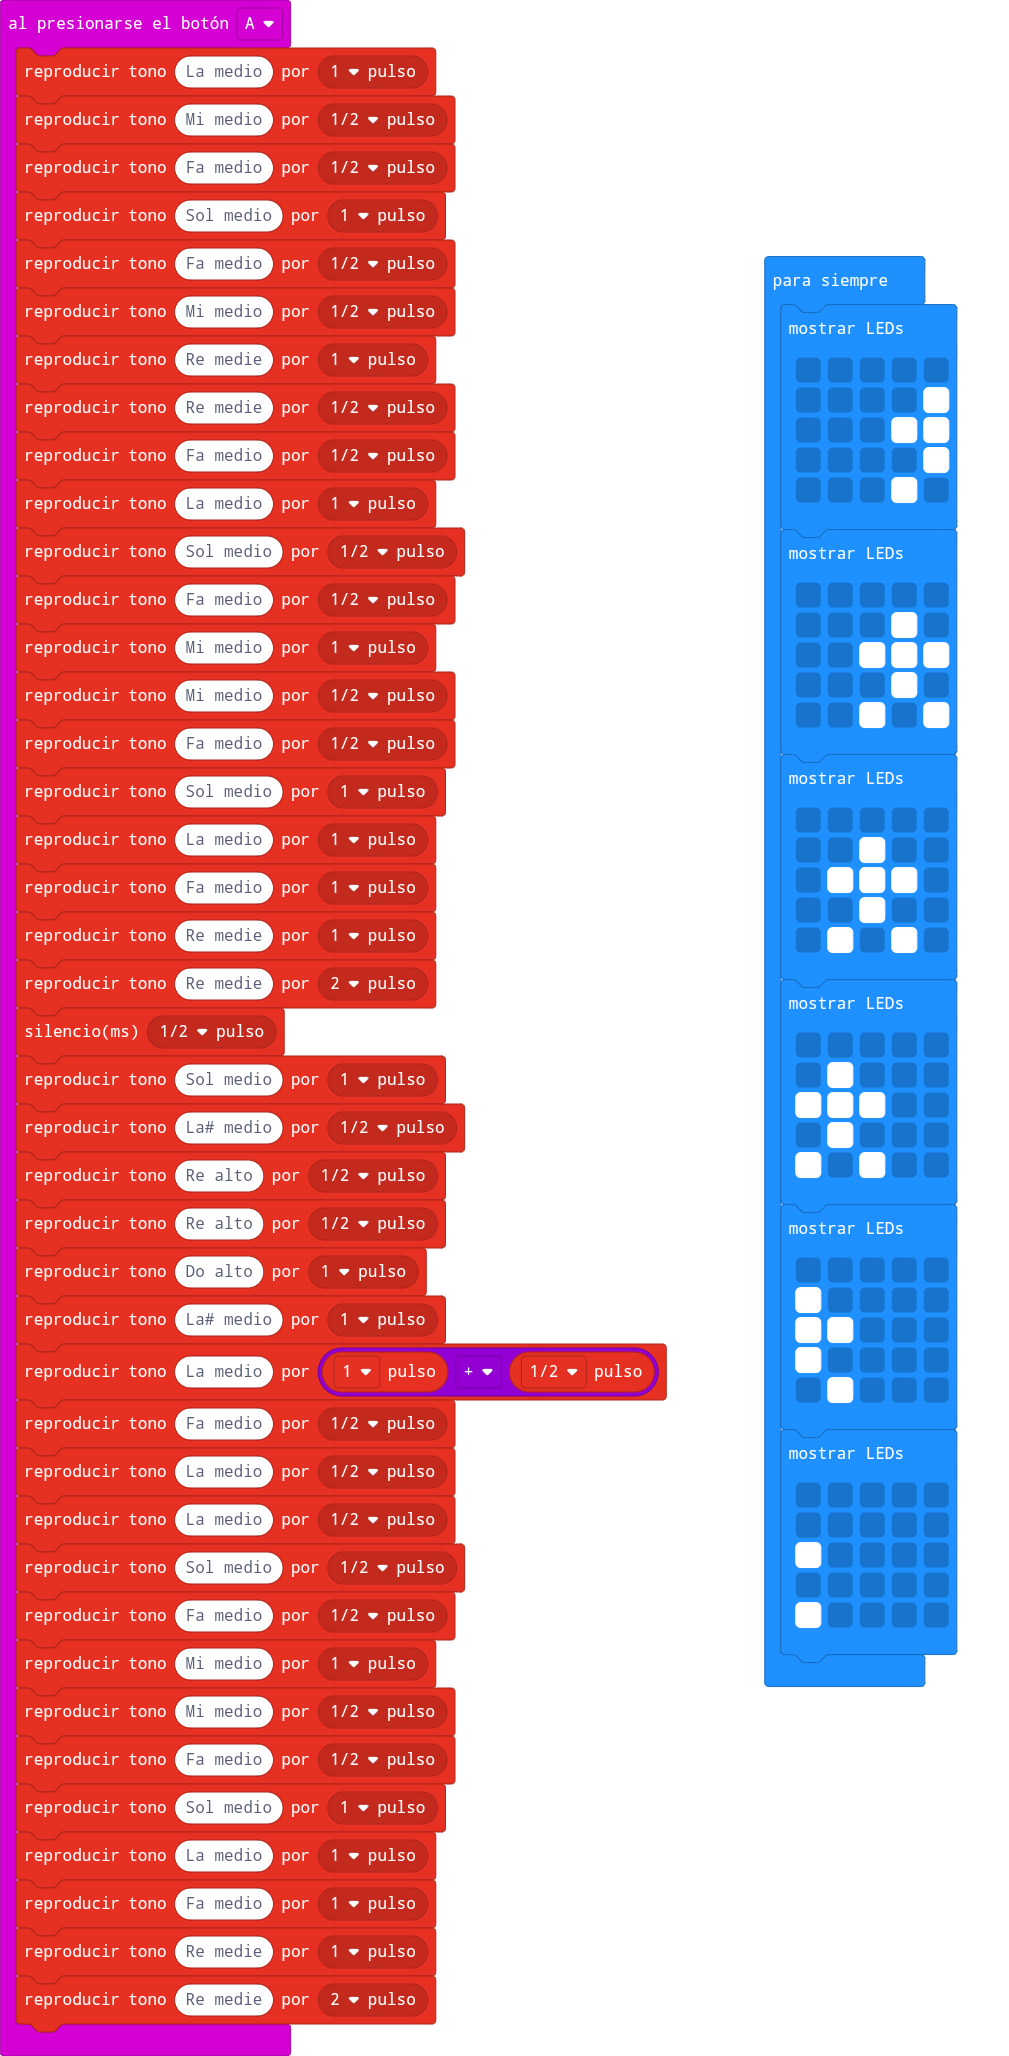
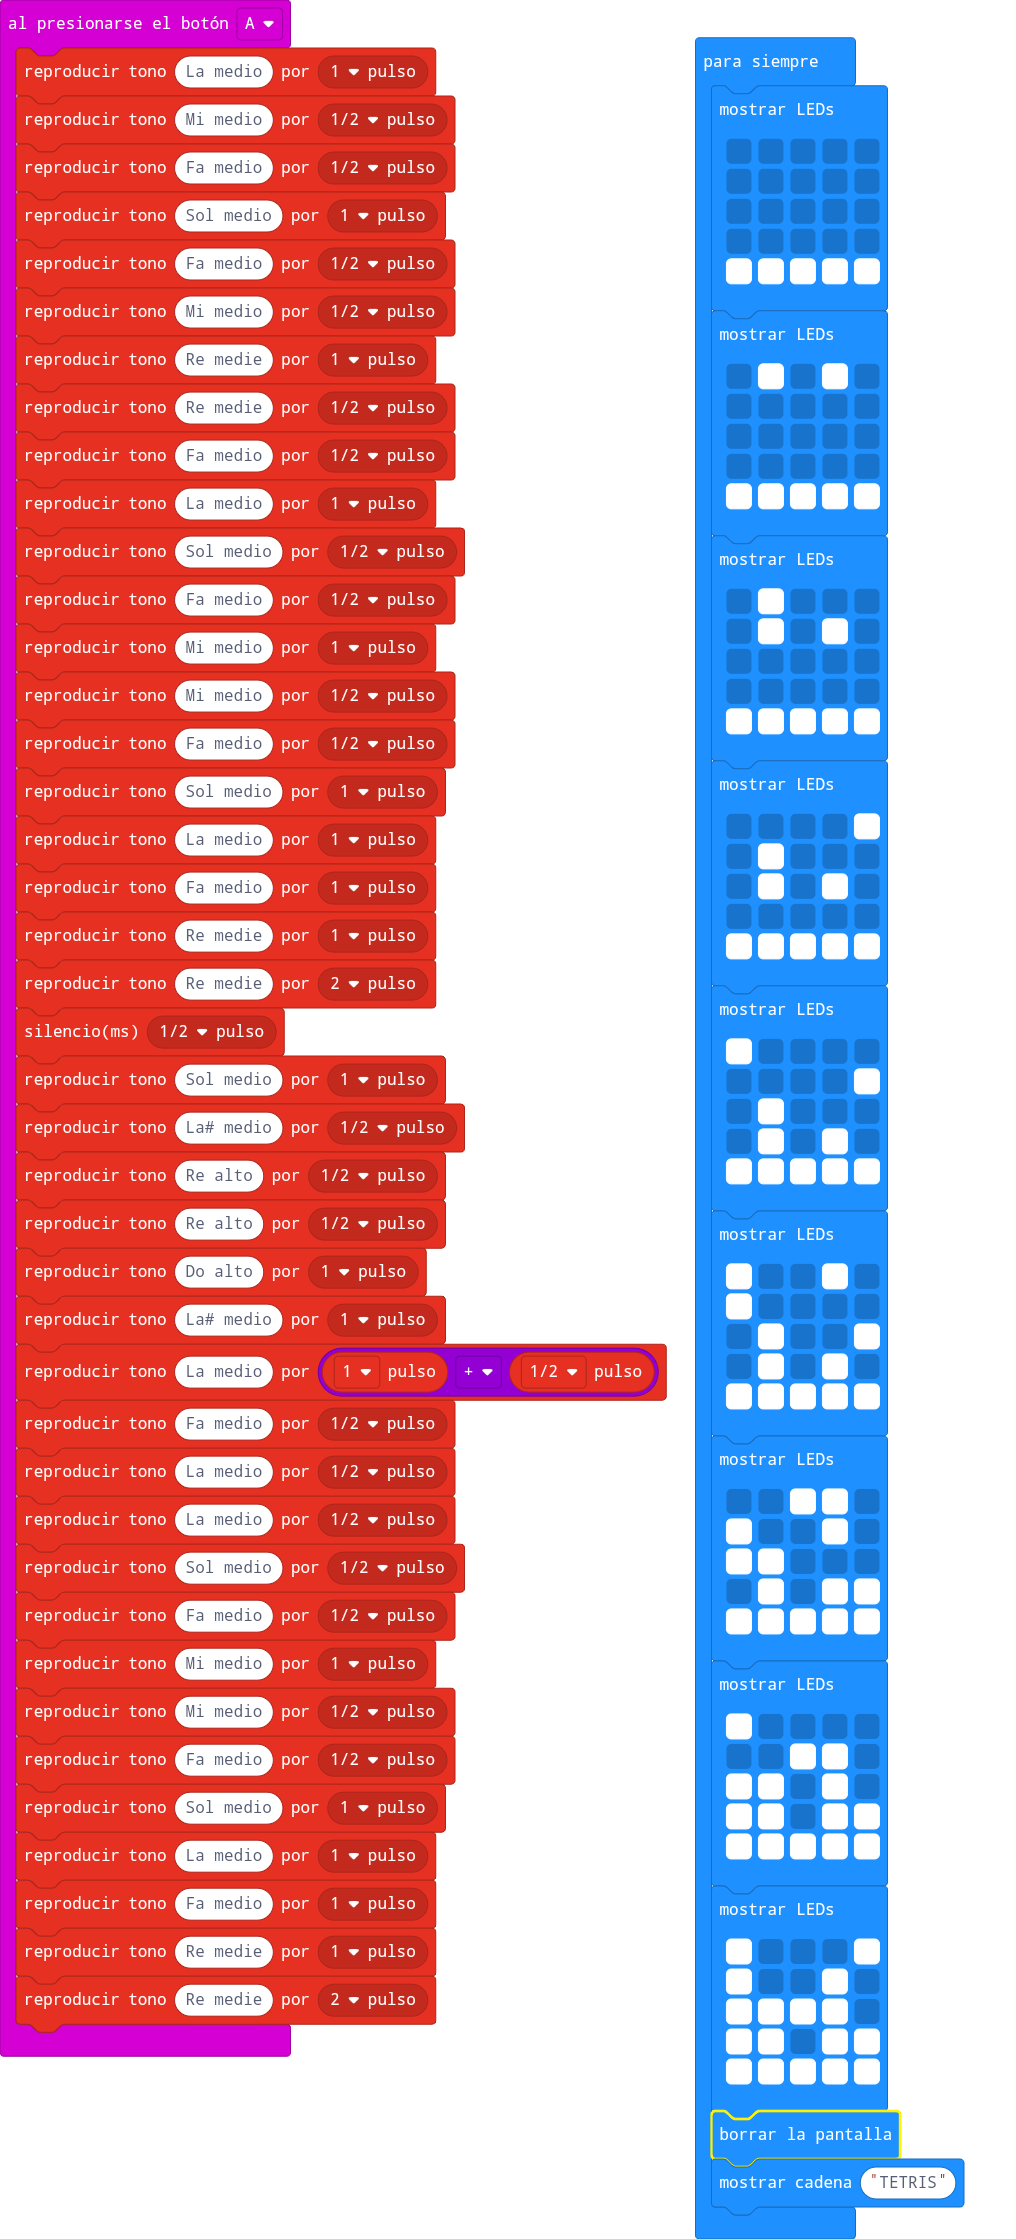
Actualizar main.blocks, main.ts

diff --git a/main.ts b/main.ts
@@ -44,44 +44,67 @@ input.onButtonPressed(Button.A, function () {
 basic.forever(function () {
     basic.showLeds(`
         . . . . .
-        . . . . #
-        . . . # #
-        . . . . #
-        . . . # .
+        . . . . .
+        . . . . .
+        . . . . .
+        # # # # #
         `)
     basic.showLeds(`
-        . . . . .
-        . . . # .
-        . . # # #
-        . . . # .
-        . . # . #
-        `)
-    basic.showLeds(`
-        . . . . .
-        . . # . .
-        . # # # .
-        . . # . .
         . # . # .
+        . . . . .
+        . . . . .
+        . . . . .
+        # # # # #
         `)
     basic.showLeds(`
+        . # . . .
+        . # . # .
         . . . . .
-        . # . . .
-        # # # . .
-        . # . . .
-        # . # . .
+        . . . . .
+        # # # # #
         `)
     basic.showLeds(`
+        . . . . #
+        . # . . .
+        . # . # .
         . . . . .
+        # # # # #
+        `)
+    basic.showLeds(`
         # . . . .
+        . . . . #
+        . # . . .
+        . # . # .
+        # # # # #
+        `)
+    basic.showLeds(`
+        # . . # .
+        # . . . .
+        . # . . #
+        . # . # .
+        # # # # #
+        `)
+    basic.showLeds(`
+        . . # # .
+        # . . # .
         # # . . .
-        # . . . .
-        . # . . .
+        . # . # #
+        # # # # #
         `)
     basic.showLeds(`
-        . . . . .
-        . . . . .
         # . . . .
-        . . . . .
-        # . . . .
+        . . # # .
+        # # . # .
+        # # . # #
+        # # # # #
         `)
+    basic.showLeds(`
+        # . . . #
+        # . . # .
+        # # # # .
+        # # . # #
+        # # # # #
+        `)
+    basic.clearScreen()
+    basic.showString("TETRIS")
 })
